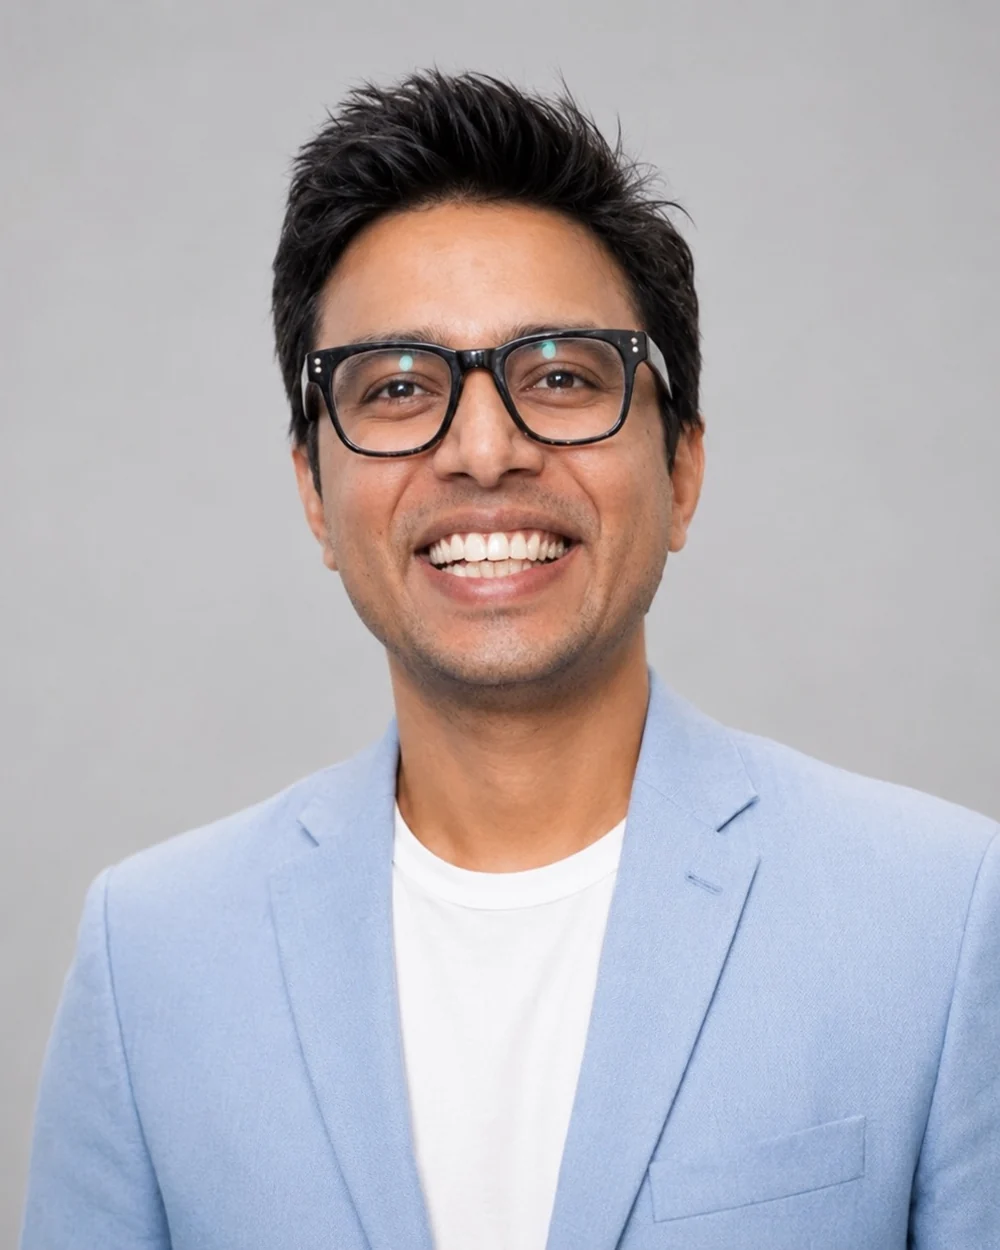
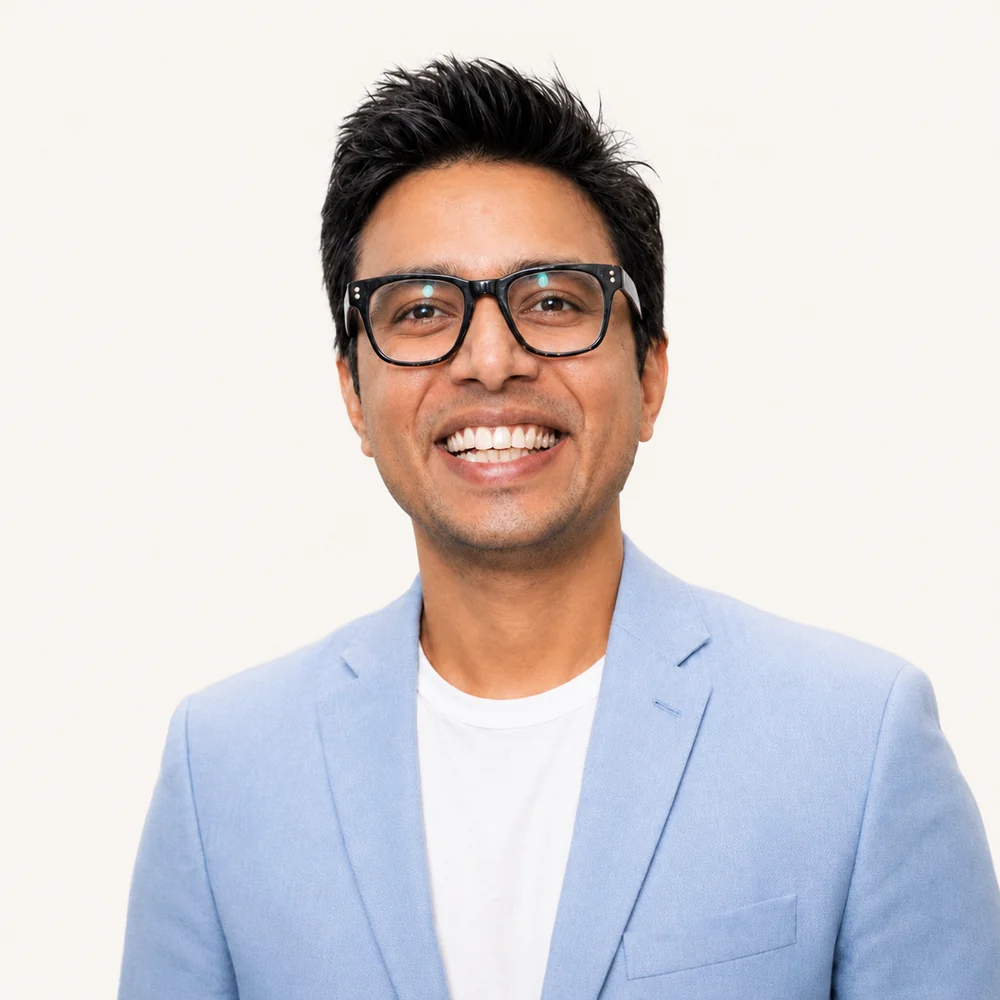
Use circular founder portrait

diff --git a/assets/css/pages/founder.css b/assets/css/pages/founder.css
@@ -84,15 +84,19 @@
 
 .founder-profile-portrait {
   margin: 0;
+  width: 100%;
+  max-width: 520px;
+  justify-self: end;
 }
 
 .founder-profile-portrait img {
   display: block;
   width: 100%;
-  aspect-ratio: 3 / 4;
+  height: auto;
+  aspect-ratio: 1 / 1;
   object-fit: cover;
-  object-position: center top;
-  border-radius: 8px;
+  object-position: center;
+  border-radius: 50%;
 }
 
 .founder-profile-portrait figcaption {
@@ -350,7 +354,8 @@
   }
 
   .founder-profile-portrait {
-    max-width: 620px;
+    max-width: 520px;
+    justify-self: start;
   }
 
   .founder-section-grid {

diff --git a/assets/css/pages/home.css b/assets/css/pages/home.css
@@ -1900,9 +1900,9 @@ body.home #contact {
 }
 
 .founder-portrait {
-  aspect-ratio: 4 / 5;
+  aspect-ratio: 1 / 1;
   overflow: hidden;
-  border-radius: 8px;
+  border-radius: 50%;
   background: #fff;
   box-shadow: var(--home-shadow);
 }
@@ -1911,7 +1911,7 @@ body.home #contact {
   width: 100%;
   height: 100%;
   object-fit: cover;
-  object-position: center 20%;
+  object-position: center;
 }
 
 .founder-copy {

diff --git a/creative-agency-delhi.html b/creative-agency-delhi.html
@@ -580,8 +580,8 @@ We help ambitious brands strengthen perception, build competitive advantage, and
   <div class="section-inner">
     <div style="display:grid;grid-template-columns:1fr 2fr;gap:clamp(40px,6vw,80px);align-items:center;" class="fade-up founder-grid">
             <div style="aspect-ratio:1/1;overflow:hidden;border-radius:50%;max-width:280px;width:100%;margin:0 auto;">
-  <img src="/founder.webp" alt="Saurabh Sohan Singh, Founder &amp; Creative Strategist, SQUARGRAPH™"
-    width="380" height="507" loading="eager" fetchpriority="high" decoding="sync"
+  <img src="/founder.webp?v=20260717-founder-circle1" alt="Saurabh Sohan Singh, Founder &amp; Creative Strategist, SQUARGRAPH™"
+    width="500" height="500" loading="eager" fetchpriority="high" decoding="sync"
     style="width:100%;height:100%;object-fit:cover;object-position:center 25%;display:block;aspect-ratio:1/1;" />
 </div>
 

diff --git a/index.html b/index.html
@@ -50,7 +50,7 @@
   <link rel="stylesheet" href="/assets/css/layout.css?v=20260708-footer-unified2">
   <link rel="stylesheet" href="/assets/css/components.css?v=20260717-forest1">
   <link rel="stylesheet" href="/assets/css/animations.css">
-  <link rel="stylesheet" href="/assets/css/pages/home.css?v=20260717-forest1">
+  <link rel="stylesheet" href="/assets/css/pages/home.css?v=20260717-founder-circle1">
   <link rel="stylesheet" href="/assets/css/site-refresh.css?v=20260717-forms1" />
 </head>
 <body class="home">
@@ -606,7 +606,7 @@ height="0" width="0" style="display:none;visibility:hidden"></iframe></noscript>
   <div class="section-inner">
     <div class="founder-grid fade-up">
       <figure class="founder-portrait">
-        <img src="/saurabh-sohan-singh-founder-squargraph.webp" alt="Saurabh Sohan Singh, Founder of SQUARGRAPH" width="380" height="507" loading="lazy" decoding="async" />
+        <img src="/saurabh-sohan-singh-founder-squargraph.webp?v=20260717-founder-circle1" alt="Saurabh Sohan Singh, Founder of SQUARGRAPH" width="500" height="500" loading="lazy" decoding="async" />
       </figure>
       <div class="founder-copy">
         <p class="section-eyebrow">The Founder</p>

diff --git a/saurabh-sohan-singh.html b/saurabh-sohan-singh.html
@@ -33,7 +33,7 @@
   <link rel="preload" href="/fonts/Satoshi-Bold.woff" as="font" type="font/woff" crossorigin />
 
   <link rel="stylesheet" href="/assets/css/site-refresh.css?v=20260717-forest1" />
-  <link rel="stylesheet" href="/assets/css/pages/founder.css?v=20260716-founder-profile" />
+  <link rel="stylesheet" href="/assets/css/pages/founder.css?v=20260717-founder-circle2" />
   <script type="application/ld+json">
   {
     "@context": "https://schema.org",
@@ -142,7 +142,7 @@
         </div>
       </div>
       <figure class="founder-profile-portrait fade-up d1">
-        <img src="/saurabh-sohan-singh-founder-squargraph.webp" alt="Saurabh Sohan Singh, Founder of SQUARGRAPH" width="380" height="507" fetchpriority="high" decoding="async" />
+        <img src="/saurabh-sohan-singh-founder-squargraph.webp?v=20260717-founder-circle1" alt="Saurabh Sohan Singh, Founder of SQUARGRAPH" width="500" height="500" fetchpriority="high" decoding="async" />
         <figcaption>Saurabh Sohan Singh, Founder &amp; Creative Strategist. New Delhi, India.</figcaption>
       </figure>
     </div>

diff --git a/growth-partner.html b/growth-partner.html
@@ -292,7 +292,7 @@
 <section class="founder-strip">
   <div class="founder-strip-inner scroll-reveal">
     <div class="founder-strip-photo">
-      <img src="/founder.webp" alt="Saurabh Sohan Singh, Founder, SQUARGRAPH™" width="76" height="76" loading="lazy" decoding="async" />
+      <img src="/founder.webp?v=20260717-founder-circle1" alt="Saurabh Sohan Singh, Founder, SQUARGRAPH™" width="76" height="76" loading="lazy" decoding="async" />
     </div>
     <div>
       <div class="founder-strip-name">Led directly by Saurabh Sohan Singh, Founder</div>